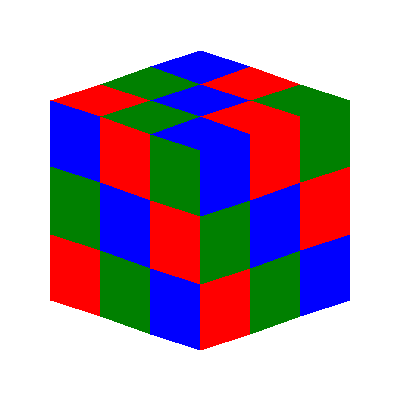
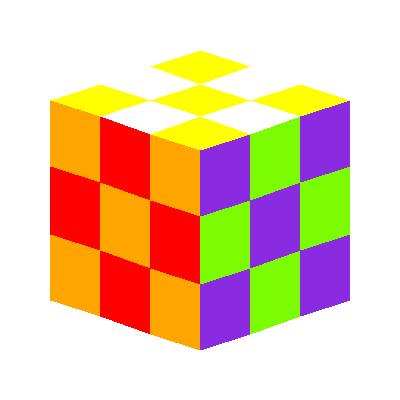
Add more color

diff --git a/Program.cs b/Program.cs
@@ -7,12 +7,21 @@ namespace RubikCubeImageRender
 {
     class Program
     {
+        static Dictionary<Char, Color> colorMap = new Dictionary<char, Color>();
+
+        static void initColorMap()
+        {
+            colorMap['R'] = Color.Red;
+            colorMap['G'] = Color.LawnGreen;
+            colorMap['B'] = Color.BlueViolet;
+            colorMap['O'] = Color.Orange;
+            colorMap['Y'] = Color.Yellow;
+            colorMap['W'] = Color.White;
+            colorMap['X'] = Color.Gray;
+        }
+
         static void drawAndSave(string filename, Model model, string colorCode)
         {
-            Dictionary<Char, Color> colorMap = new Dictionary<char, Color>();
-            colorMap['R'] = Color.Red;
-            colorMap['G'] = Color.Green;
-            colorMap['B'] = Color.Blue;
             int width = 400;
             int height = 400;
 
@@ -42,7 +51,7 @@ namespace RubikCubeImageRender
 
         static void Main(string[] args)
         {
-            //readModels();
+            initColorMap();
             Dictionary<String, Model> models = ConfigLoader.readModels();
             using (StreamReader sr = new StreamReader("rubik.dat"))
             {
